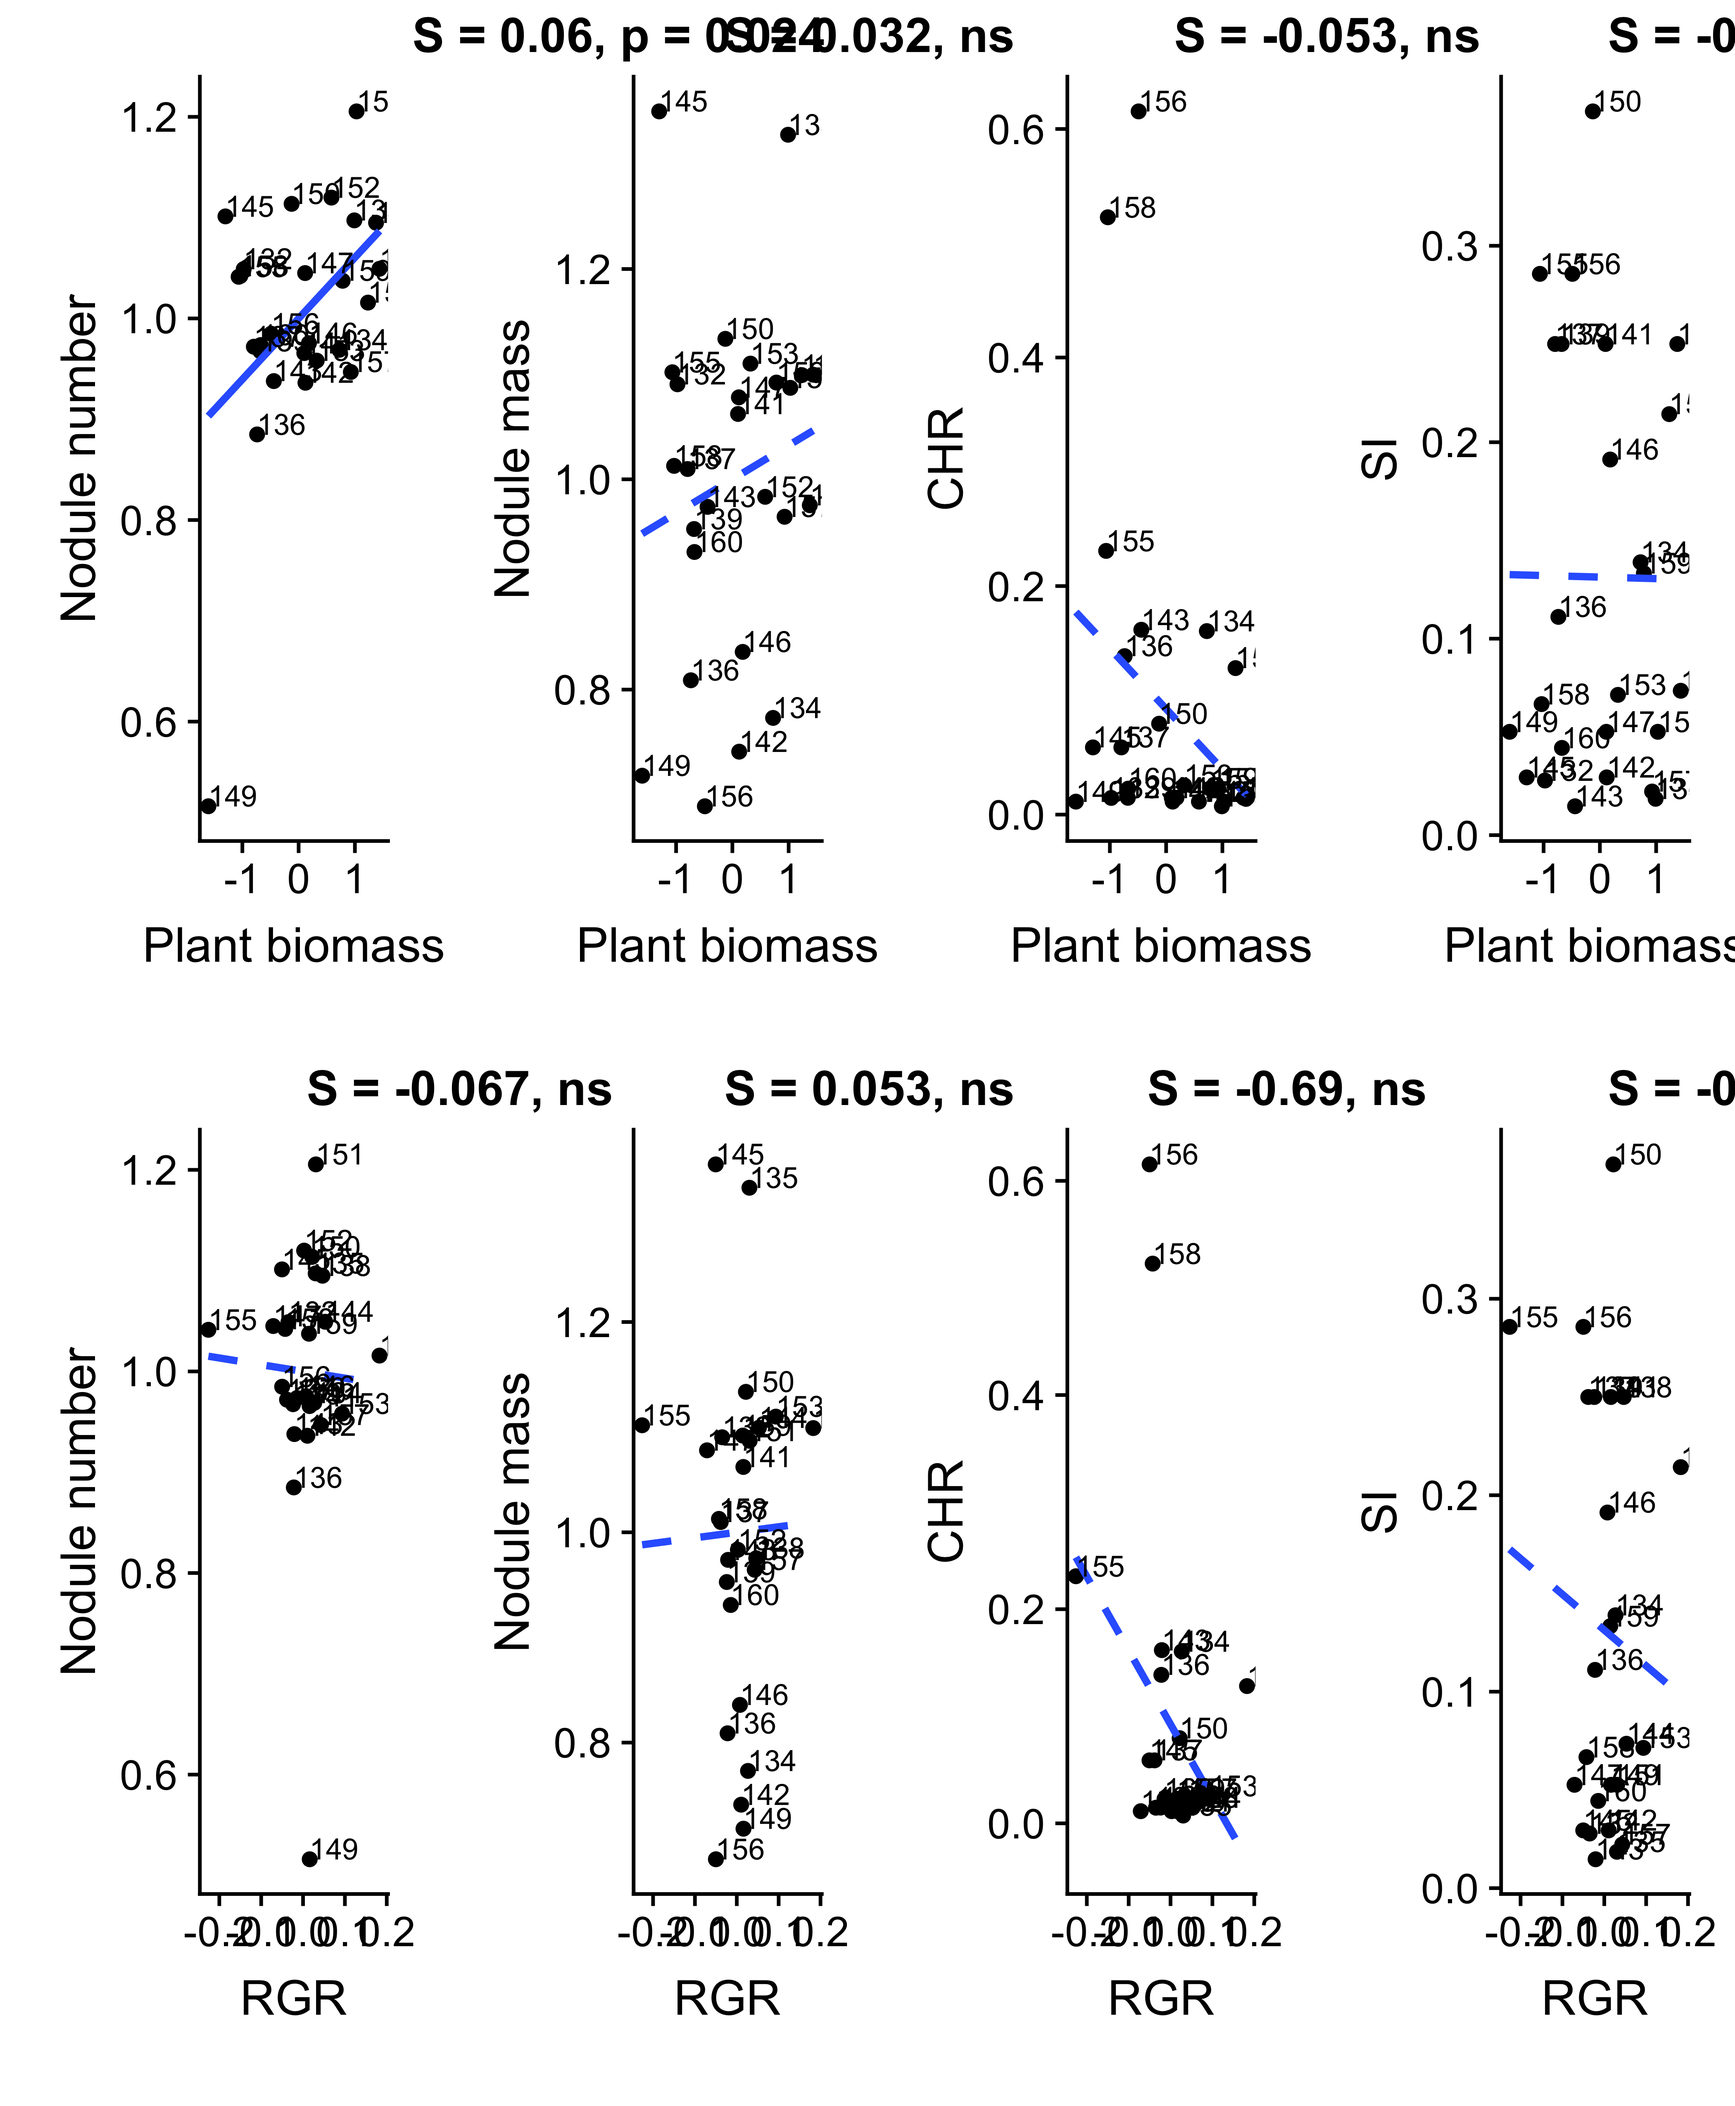
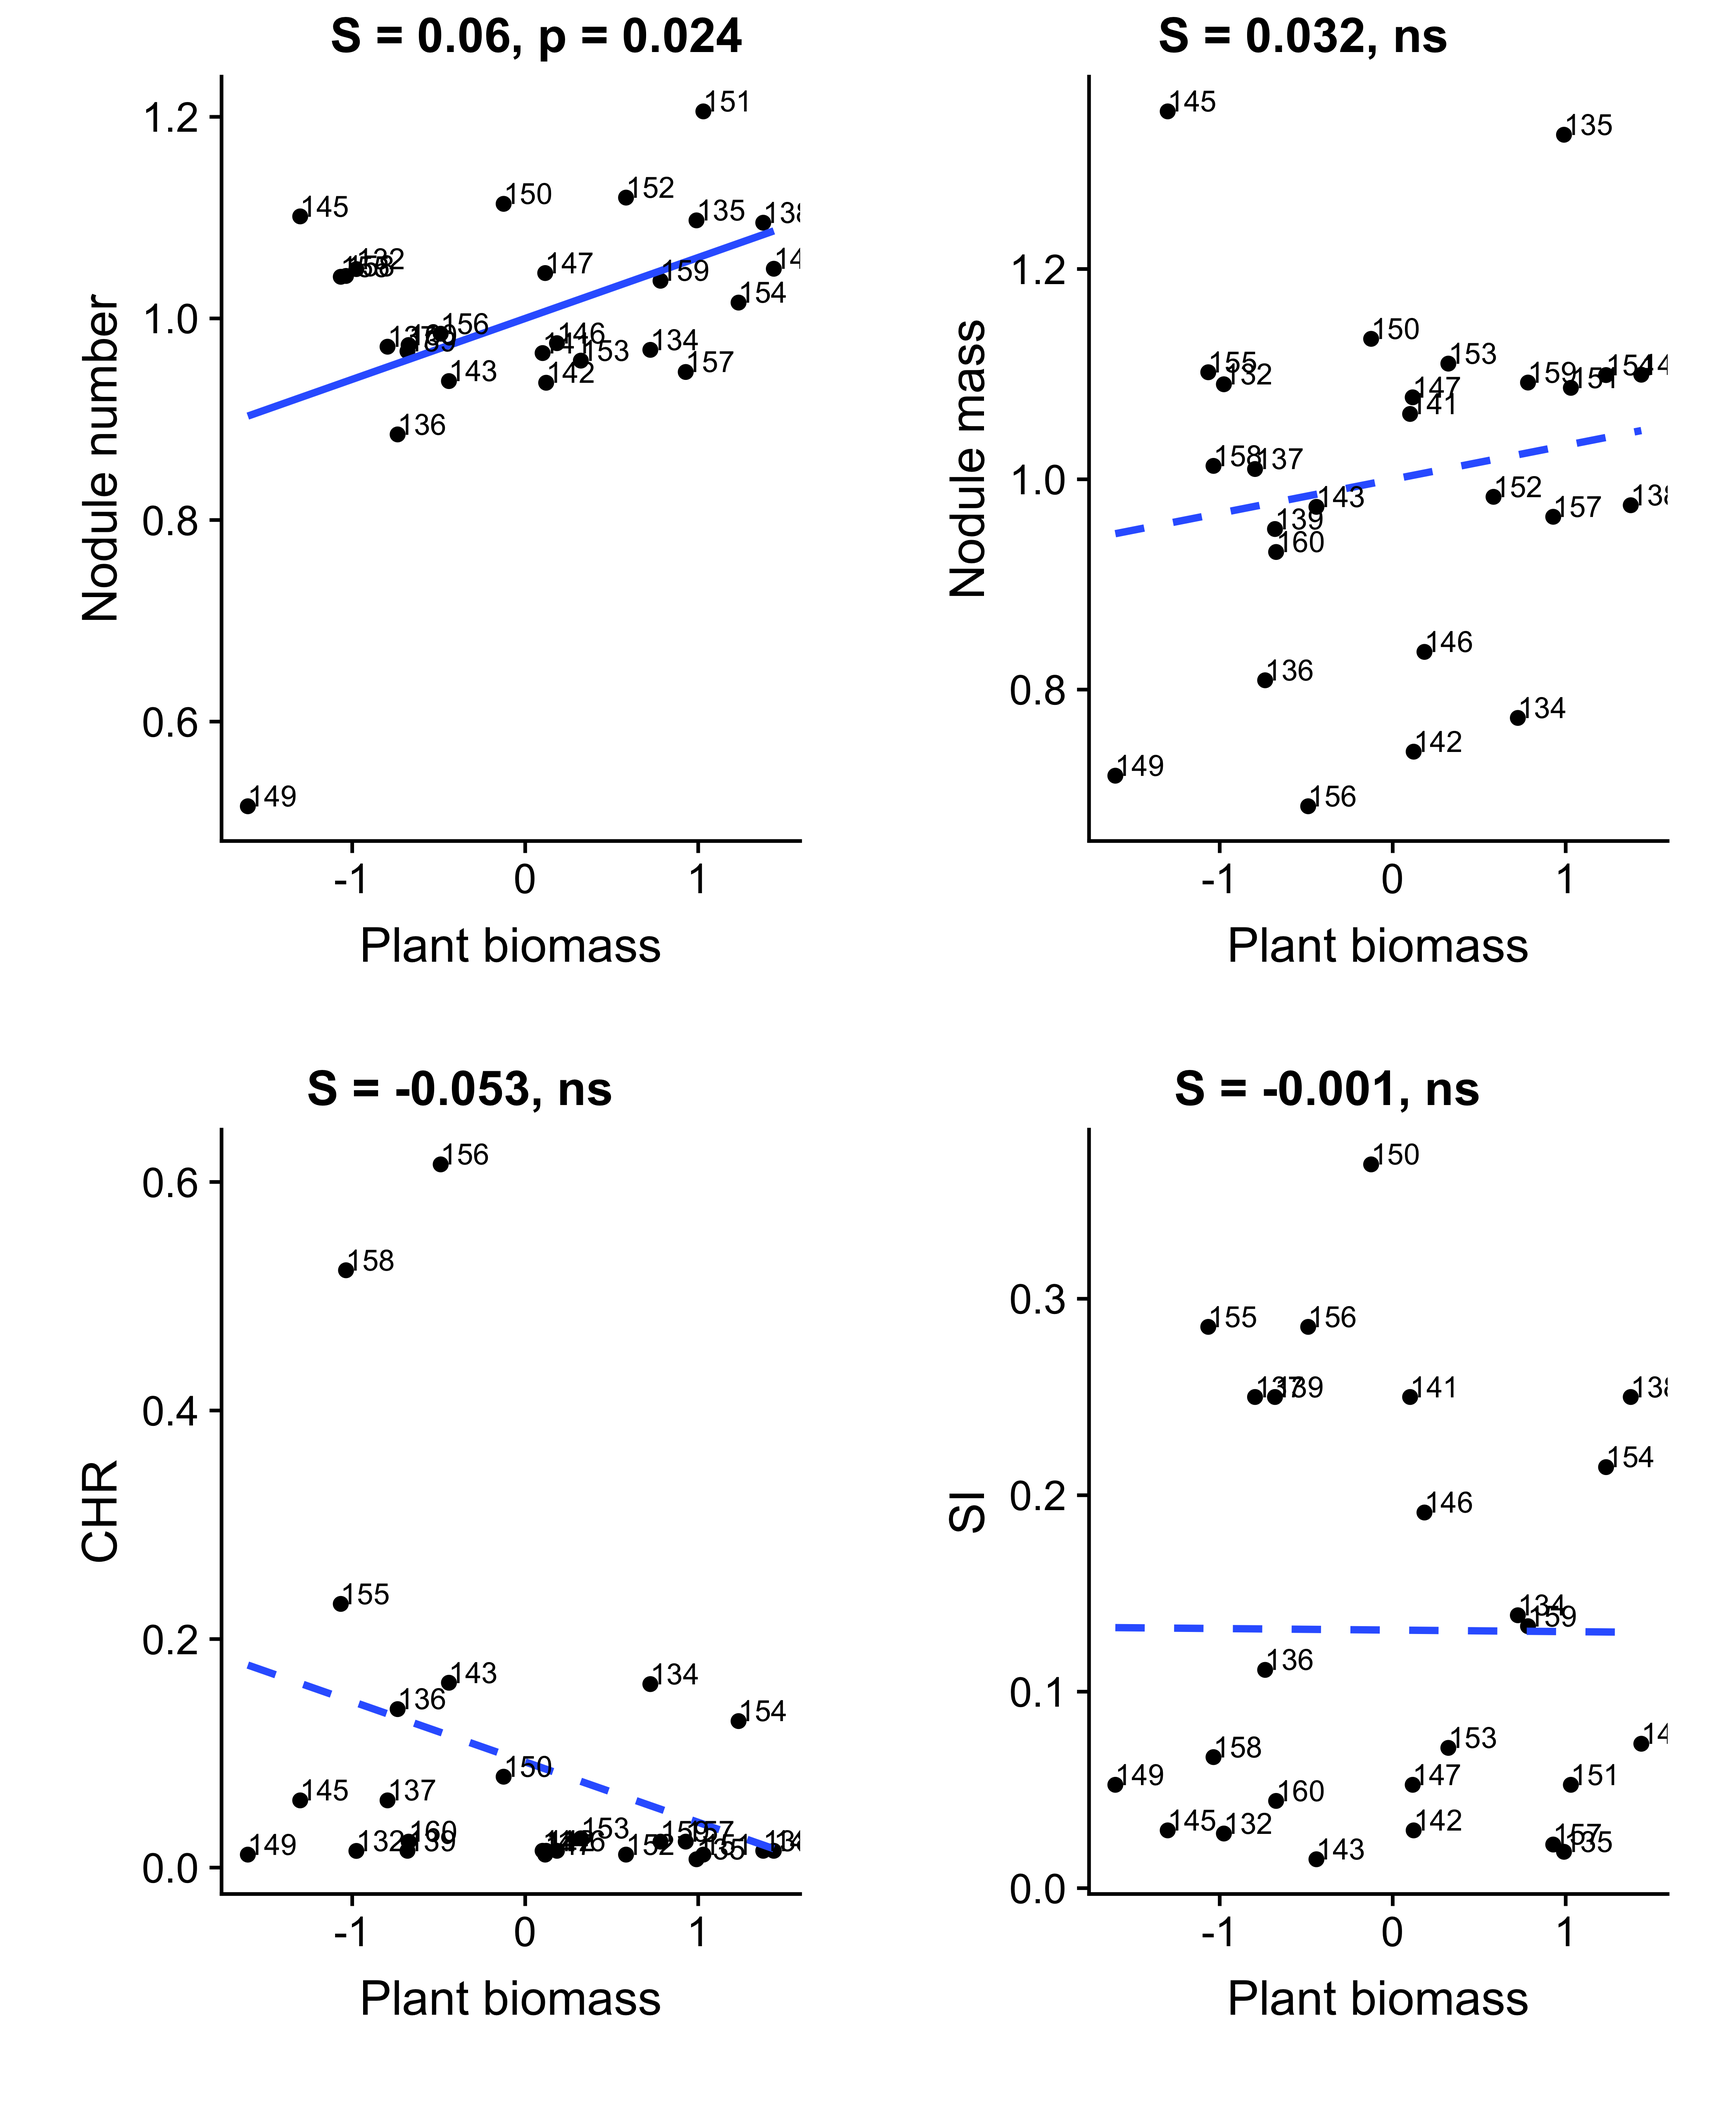
Commit from RStudio

diff --git a/README.md b/README.md
@@ -538,7 +538,7 @@ p8 <- ggplot(data=df.means, aes(y=SI, x=RGR))+
       ylab("SI")+
       xlab("RGR")
 
-plot_grid(p1,p2,p3,p4,p5,p6,p7,p8, nrow=2, ncol=4, labels=c(S1, S2, S3, S4, S5, S6, S7, S8), hjust = -1, scale = 0.9)
+plot_grid(p1,p2,p3,p4, labels=c(S1, S2, S3, S4), hjust = c(-0.8, -1, -1, -1), scale=0.9)
 ```
 
     ## Warning: Removed 1 rows containing non-finite values (stat_smooth).
@@ -547,13 +547,19 @@ plot_grid(p1,p2,p3,p4,p5,p6,p7,p8, nrow=2, ncol=4, labels=c(S1, S2, S3, S4, S5, 
 
     ## Warning: Removed 1 rows containing missing values (geom_text).
 
+![](README_files/figure-markdown_github/Selection%20gradients-1.png)
+
+``` r
+plot_grid(p5,p6,p7,p8, labels=c(S5, S6, S7, S8), hjust = -1, scale = 0.9)
+```
+
     ## Warning: Removed 1 rows containing non-finite values (stat_smooth).
 
     ## Warning: Removed 1 rows containing missing values (geom_point).
 
     ## Warning: Removed 1 rows containing missing values (geom_text).
 
-![](README_files/figure-markdown_github/Selection%20gradients-1.png)
+![](README_files/figure-markdown_github/Selection%20gradients-2.png)
 
 Why do different fitness measures give different answers?
 =========================================================
@@ -743,6 +749,31 @@ p14 <- ggplot(data=df.means, aes(y=tot_nod_std, x=nod_mass_std))+
       ylab("Nodule number")+
       geom_text(aes(label=Strain),hjust=0, vjust=0, size=3)
 
+
+plot_grid(p9, p10, p11, p12, p13, p14)
+```
+
+    ## Warning: Removed 1 rows containing non-finite values (stat_smooth).
+
+    ## Warning: Removed 1 rows containing missing values (geom_point).
+
+    ## Warning: Removed 1 rows containing missing values (geom_text).
+
+    ## Warning: Removed 1 rows containing non-finite values (stat_smooth).
+
+    ## Warning: Removed 1 rows containing missing values (geom_point).
+
+    ## Warning: Removed 1 rows containing missing values (geom_text).
+
+    ## Warning: Removed 1 rows containing non-finite values (stat_smooth).
+
+    ## Warning: Removed 1 rows containing missing values (geom_point).
+
+    ## Warning: Removed 1 rows containing missing values (geom_text).
+
+![](README_files/figure-markdown_github/Correlations%20among%20fitness%20proxies,%20-1.png)
+
+``` r
 #Corrlation between plant fitness proxies
 
 lm15 <- lm(RGR~plant_biomass_std, data=df.means)
@@ -775,26 +806,7 @@ p15 <- ggplot(data=df.means, aes(y=RGR, x=plant_biomass_std))+
       geom_text(aes(label=Strain),hjust=0, vjust=0, size=3)+
       xlab("Plant biomass")+
       ylab("RGR")
-
-plot_grid(p9, p10, p11, p12, p13, p14, p15)
+p15
 ```
 
-    ## Warning: Removed 1 rows containing non-finite values (stat_smooth).
-
-    ## Warning: Removed 1 rows containing missing values (geom_point).
-
-    ## Warning: Removed 1 rows containing missing values (geom_text).
-
-    ## Warning: Removed 1 rows containing non-finite values (stat_smooth).
-
-    ## Warning: Removed 1 rows containing missing values (geom_point).
-
-    ## Warning: Removed 1 rows containing missing values (geom_text).
-
-    ## Warning: Removed 1 rows containing non-finite values (stat_smooth).
-
-    ## Warning: Removed 1 rows containing missing values (geom_point).
-
-    ## Warning: Removed 1 rows containing missing values (geom_text).
-
-![](README_files/figure-markdown_github/Correlations%20among%20fitness%20proxies,%20-1.png)
+![](README_files/figure-markdown_github/Correlations%20among%20fitness%20proxies,%20-2.png)
